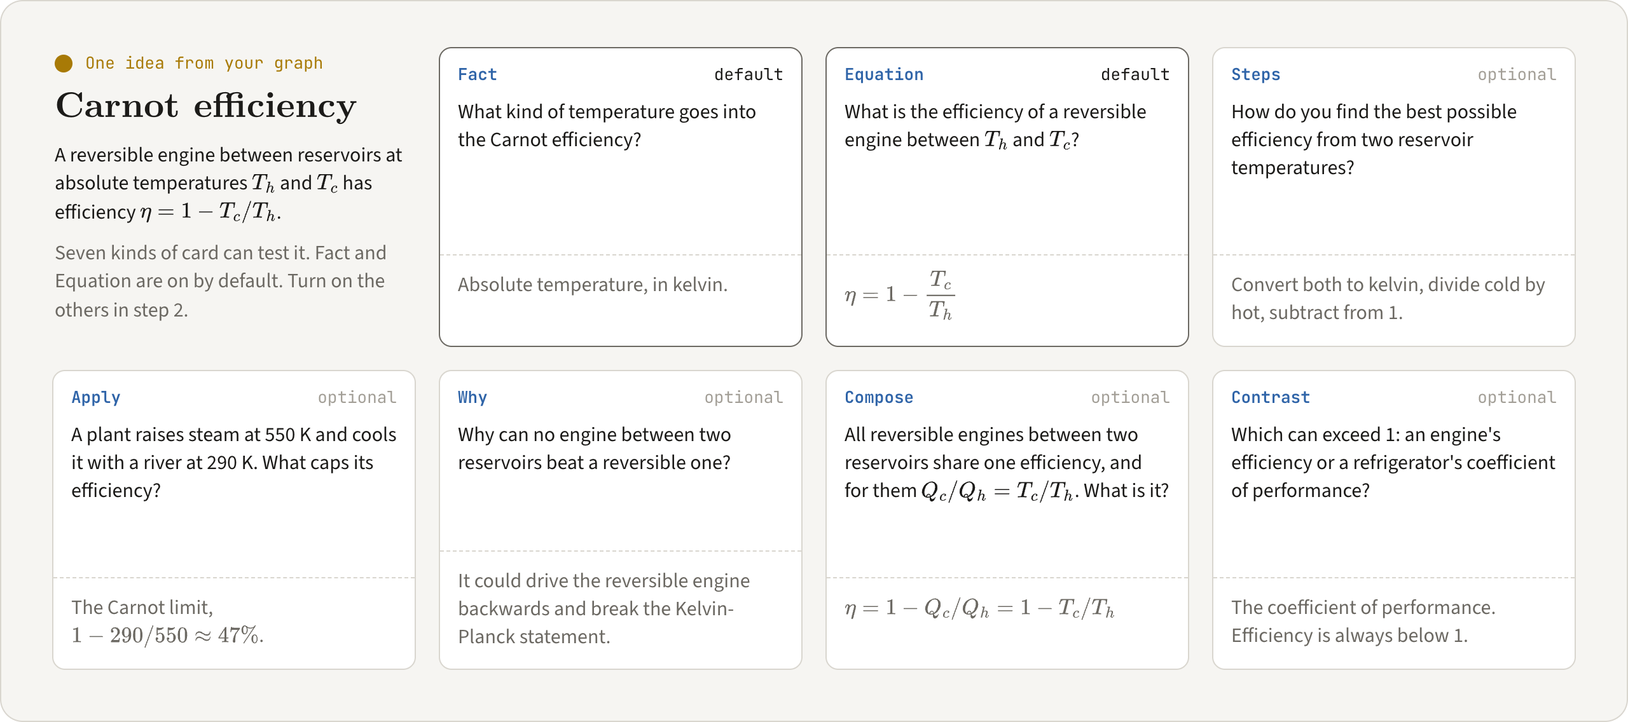
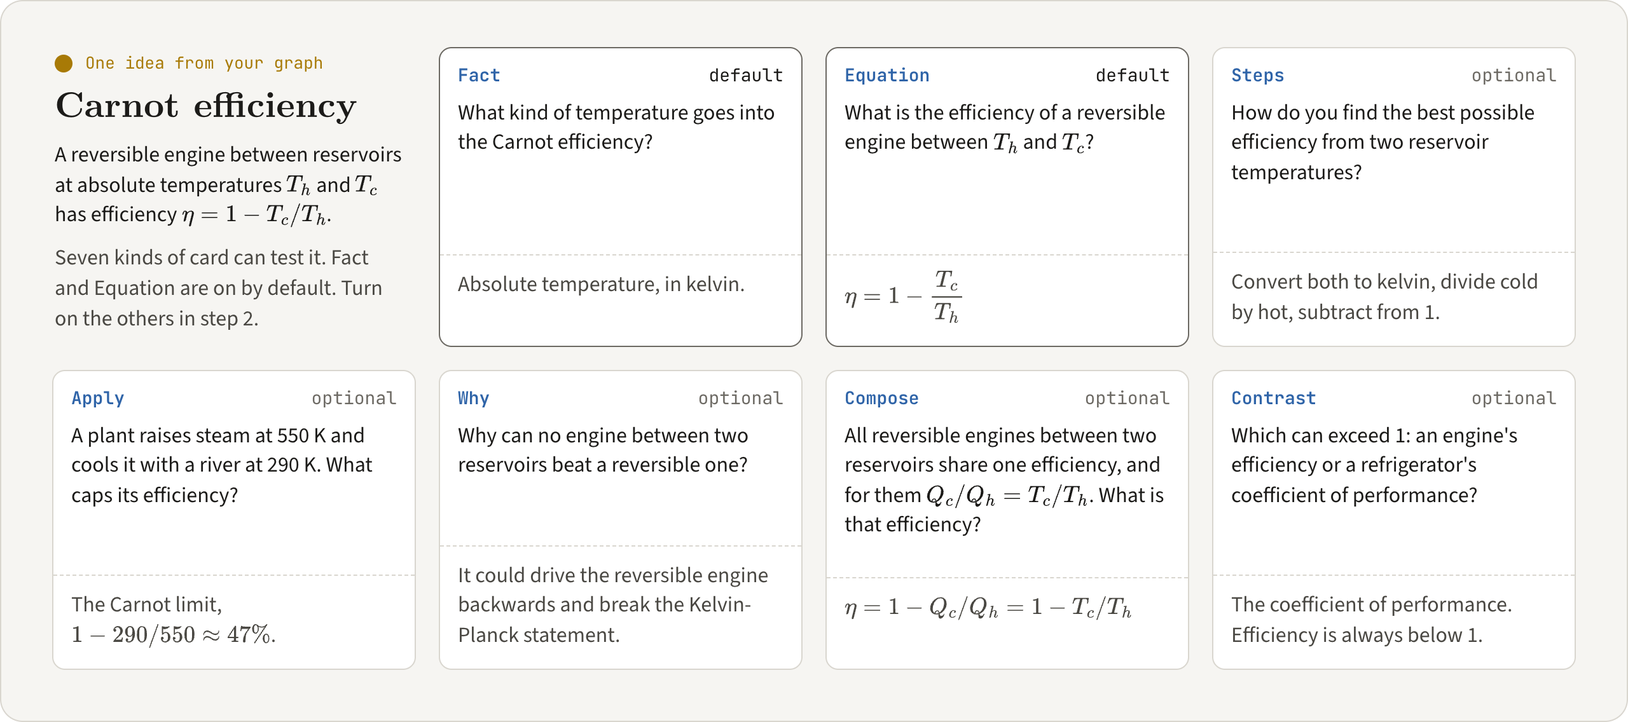
Address council round 1: setup steps, data table, alt text, crops and diagram legibility
- Connect to Anki: Save, Test connection, Use the open profile, Use this
  profile; retake settings unpaired at port 8765
- What goes where: separate writes, on-request note-type changes and reads;
  system tags are default and optional; API key goes with each request
- Model input described as a summary confirmed by Start writing
- Build step, zip prerequisite, tested versions, upgrade backup
- Interrupted sends: reconnect, Check unconfirmed sends, resend failed only
- Credit LearnHarness PR #447 in README and THIRD_PARTY_NOTICES
- Hero cropped to the main panel; choose-ideas ends on the selection bar;
  code crop drops the long-card warning; overlay shadows fit the canvas
- Larger, higher-contrast diagram text; fixed alt text

diff --git a/docs/images/readme/src/workflow.html b/docs/images/readme/src/workflow.html
@@ -4,20 +4,20 @@
 #art { width: 1280px; padding: 40px 48px 44px; border-radius: 18px; border: 1px solid var(--rule); }
 .zones { display: grid; grid-template-columns: 3fr 2fr; position: relative; }
 .zone h2 { font-family: var(--display); font-size: 30px; font-weight: 700; letter-spacing: -0.2px; }
-.zone p.sub { font-size: 14px; color: var(--muted); margin-top: 6px; }
+.zone p.sub { font-size: 16px; color: var(--muted); margin-top: 6px; }
 .zone.anki { padding-left: 44px; }
 .divider { position: absolute; left: 60%; top: -8px; bottom: -8px; border-left: 2px dashed var(--rule); }
-.divider .tag { position: absolute; top: 192px; left: -66px; width: 132px; text-align: center; background: var(--ink); padding: 8px 0; font-size: 13px; color: var(--paper); line-height: 1.35; }
+.divider .tag { position: absolute; top: 192px; left: -66px; width: 132px; text-align: center; background: var(--ink); padding: 8px 0; font-size: 15px; color: var(--paper); line-height: 1.35; }
 .divider .tag b { display: block; color: var(--flag); font-weight: 600; }
 .track { display: grid; grid-template-columns: repeat(3, 1fr); gap: 0; margin-top: 34px; }
 .track.anki { grid-template-columns: repeat(2, 1fr); }
 .st { position: relative; padding-right: 18px; }
 .st svg { display: block; height: 96px; }
-.st .n { font-size: 13px; color: var(--muted); margin-top: 16px; }
-.st h3 { font-size: 17px; font-weight: 600; margin-top: 4px; }
-.st p { font-family: var(--sans); font-size: 16px; line-height: 1.4; color: var(--muted); margin-top: 8px; max-width: 228px; }
+.st .n { font-size: 15px; color: var(--muted); margin-top: 16px; }
+.st h3 { font-size: 20px; font-weight: 600; margin-top: 4px; }
+.st p { font-family: var(--sans); font-size: 19px; line-height: 1.35; color: var(--body); margin-top: 8px; max-width: 228px; }
 .st p em { font-style: normal; color: var(--paper); }
-.foot { margin-top: 34px; padding-top: 18px; border-top: 1px solid var(--rule); display: grid; grid-template-columns: 3fr 2fr; font-family: var(--sans); font-size: 15px; color: var(--muted); }
+.foot { margin-top: 34px; padding-top: 18px; border-top: 1px solid var(--rule); display: grid; grid-template-columns: 3fr 2fr; font-family: var(--sans); font-size: 17px; color: var(--body); }
 .foot span + span { padding-left: 44px; }
 .key { display: inline-block; width: 10px; height: 10px; border-radius: 3px; margin: 0 6px 0 14px; vertical-align: 0; }
 .key:first-child { margin-left: 0; }
@@ -39,7 +39,7 @@
           </svg>
           <div class="n">Step 1</div>
           <h3>Choose ideas</h3>
-          <p>Pick ideas from a session or the whole graph. <em>Flag for Anki</em> marks a teaching reply as you go.</p>
+          <p>Tick ideas from a session. <em>Flag for Anki</em> marks replies as you learn.</p>
         </div>
         <div class="st">
           <svg viewBox="0 0 200 96" width="200">
@@ -52,7 +52,7 @@
           </svg>
           <div class="n">Step 2</div>
           <h3>A model drafts</h3>
-          <p>Your LearnHarness model writes draft cards in the background, using linked ideas and the reply each came from.</p>
+          <p>Your model writes drafts in the background from each idea and its context.</p>
         </div>
         <div class="st">
           <svg viewBox="0 0 200 96" width="200">
@@ -65,7 +65,7 @@
           </svg>
           <div class="n">Step 3</div>
           <h3>You review</h3>
-          <p>Edit, drop or approve each card beside the idea it came from. Maths and code render as you type.</p>
+          <p>Edit, drop or approve each draft. The source idea is one click away.</p>
         </div>
       </div>
     </div>
@@ -83,7 +83,7 @@
           </svg>
           <div class="n">Send</div>
           <h3>New notes</h3>
-          <p>Approved cards go to the deck you pick, with tags, through AnkiConnect.</p>
+          <p>Approved cards go to your deck through AnkiConnect.</p>
         </div>
         <div class="st">
           <svg viewBox="0 0 200 96" width="200">
@@ -94,7 +94,7 @@
           </svg>
           <div class="n">Review</div>
           <h3>Anki schedules</h3>
-          <p>Anki keeps the schedule and your review history. The plugin never edits or deletes a note.</p>
+          <p>Anki schedules reviews. The plugin never edits or deletes notes.</p>
         </div>
       </div>
     </div>

diff --git a/docs/images/readme/src/card-types.html b/docs/images/readme/src/card-types.html
@@ -9,16 +9,16 @@
 .idea .node { display: flex; align-items: center; gap: 10px; font-size: 13px; color: var(--flag); }
 .idea .node i { width: 14px; height: 14px; border-radius: 50%; background: var(--flag); display: inline-block; }
 .idea h2 { font-family: var(--display); font-size: 28px; line-height: 1.1; margin-top: 12px; }
-.idea p { font-family: var(--sans); font-size: 16px; line-height: 1.4; color: var(--muted); margin-top: 10px; }
+.idea p { font-family: var(--sans); font-size: 17px; line-height: 1.4; color: var(--body); margin-top: 10px; }
 .idea p.stmt { color: var(--paper); }
 .card { border-radius: 10px; background: var(--panel); border: 1.5px solid var(--rule); display: flex; flex-direction: column; min-height: 236px; }
 .card.def { border-color: var(--muted); }
-.card header { display: flex; justify-content: space-between; align-items: baseline; padding: 12px 14px 0; font-size: 13px; }
+.card header { display: flex; justify-content: space-between; align-items: baseline; padding: 12px 14px 0; font-size: 14px; }
 .card header b { font-weight: 600; color: var(--draft); }
-.card header span { color: var(--faint); }
+.card header span { color: var(--muted); }
 .card.def header span { color: var(--paper); }
-.card .q { padding: 10px 14px 14px; font-family: var(--sans); font-size: 16px; line-height: 1.38; color: var(--paper); flex: 1; }
-.card .a { padding: 12px 14px 14px; border-top: 1.5px dashed var(--rule); font-family: var(--sans); font-size: 16px; line-height: 1.38; color: var(--muted); min-height: 72px; }
+.card .q { padding: 10px 14px 14px; font-family: var(--sans); font-size: 17px; line-height: 1.38; color: var(--paper); flex: 1; }
+.card .a { padding: 12px 14px 14px; border-top: 1.5px dashed var(--rule); font-family: var(--sans); font-size: 17px; line-height: 1.38; color: var(--body); min-height: 72px; }
 .card .what { padding: 0 14px 12px; font-size: 12px; color: var(--faint); line-height: 1.4; }
 </style></head>
 <body><script>document.body.className = new URLSearchParams(location.search).get("theme") || "";</script>
@@ -46,7 +46,7 @@
       <div class="q">Why can no engine between two reservoirs beat a reversible one?</div>
       <div class="a">It could drive the reversible engine backwards and break the Kelvin-Planck statement.</div></div>
     <div class="card"><header><b>Compose</b><span>optional</span></header>
-      <div class="q">All reversible engines between two reservoirs share one efficiency, and for them \(Q_c/Q_h = T_c/T_h\). What is it?</div>
+      <div class="q">All reversible engines between two reservoirs share one efficiency, and for them \(Q_c/Q_h = T_c/T_h\). What is that efficiency?</div>
       <div class="a">\(\eta = 1 - Q_c/Q_h = 1 - T_c/T_h\)</div></div>
     <div class="card"><header><b>Contrast</b><span>optional</span></header>
       <div class="q">Which can exceed 1: an engine's efficiency or a refrigerator's coefficient of performance?</div>

diff --git a/docs/images/readme/src/frame.html b/docs/images/readme/src/frame.html
@@ -7,7 +7,7 @@
 .bar i { width: 12px; height: 12px; border-radius: 50%; display: block; }
 .view { position: relative; overflow: hidden; }
 .view img { position: absolute; width: 1440px; }
-.over { position: absolute; border-radius: 12px; overflow: hidden; border: 1px solid #444; box-shadow: 0 26px 60px rgba(0,0,0,.55), 0 4px 12px rgba(0,0,0,.35); }
+.over { position: absolute; border-radius: 12px; overflow: hidden; border: 1px solid #444; box-shadow: 0 16px 34px rgba(0,0,0,.45), 0 3px 10px rgba(0,0,0,.3); }
 .over img { position: absolute; width: 1440px; }
 </style></head>
 <body>

diff --git a/docs/images/readme/src/common.css b/docs/images/readme/src/common.css
@@ -10,6 +10,7 @@
   --paper: #e9e7e2;
   --muted: #8d8a84;
   --faint: #5d5b57;
+  --body: #b3afa7;
   --flag: #d6a531;
   --draft: #7aa2d6;
   --anki: #63b07f;
@@ -25,6 +26,7 @@ body.light {
   --paper: #1c1b19;
   --muted: #6c6963;
   --faint: #a29e96;
+  --body: #4a4843;
   --flag: #a87a06;
   --draft: #2f64a8;
   --anki: #2e7d4b;

diff --git a/README.md b/README.md
@@ -2,7 +2,7 @@
   <picture>
     <source media="(prefers-color-scheme: dark)" srcset="docs/images/readme/banner-dark.png">
     <source media="(prefers-color-scheme: light)" srcset="docs/images/readme/banner-light.png">
-    <img src="docs/images/readme/banner-light.png" alt="Anki Bridge: a node in a knowledge graph linked by a dotted line to a stack of flashcards" width="720">
+    <img src="docs/images/readme/banner-light.png" alt="Anki Bridge banner. A node in a knowledge graph is linked by a dotted line to a stack of flashcards." width="720">
   </picture>
 </p>
 
@@ -16,19 +16,19 @@
   <a href="CHANGELOG.md">Changelog</a>
 </p>
 
-Anki Bridge is a community plugin for [LearnHarness](https://github.com/amosblomqvist/learnharness). It reads the ideas in your knowledge graph, has your model draft flashcards from them, and sends the ones you approve to [Anki](https://apps.ankiweb.net/) as new notes.
+<p align="center"><sub>Version 0.7.2 · No public release yet · <a href="#install">Build from source</a></sub></p>
 
-LearnHarness is good at building understanding. Anki is good at keeping it. The plugin connects the two in one direction and puts you in the middle. A model writes the drafts, you edit and approve them, and Anki schedules the reviews. Nothing reaches Anki until you press Send, and the plugin never edits or deletes a note that is already there.
+Anki Bridge is a community plugin for [LearnHarness](https://github.com/amosblomqvist/learnharness). It reads the ideas in your knowledge graph, has your model draft flashcards from them, and sends the ones you approve to [Anki](https://apps.ankiweb.net/) as new notes. You edit and approve every draft, Anki schedules the reviews, and nothing reaches Anki until you press Send.
 
-![The Anki Bridge review step in LearnHarness. Draft cards about Carnot efficiency and the Kelvin-Planck statement show their front, back and extra fields with rendered equations, above a deck and tags form with Approve all drafts and Send buttons.](docs/images/readme/hero.png)
+![The Anki Bridge review step in LearnHarness. A deck and tags form with Approve all drafts (4) and Send 1 card to Anki sits above draft cards about Carnot efficiency and the Kelvin-Planck statement, each showing front, back and extra fields with rendered equations.](docs/images/readme/hero.png)
 
 ## Why it works this way
 
 **Cards start from your graph.** Each LearnHarness idea is a single claim, linked to the premises that support it and the teaching reply it came from. The model sees all of that, so a Why card can ask for the actual reasoning you were taught and a Contrast card can pick a real neighbouring idea.
 
-**You review every card.** Model-written cards are often close but not quite right, and making or reworking your own cards helps you remember them better than studying a premade deck ([Pan et al., 2022](https://doi.org/10.1037/mac0000083)). The review screen is built for editing, with the source idea one click away and a live preview beside each field.
+**You review every card.** Model-written cards are often close but not quite right. Learners who make their own cards remember more than those who study a premade deck ([Pan et al., 2022](https://doi.org/10.1037/mac0000083)), and editing drafts keeps you part of that work. The review screen is built for editing, with the source idea one click away and a live preview below each field.
 
-**It only ever adds.** Anki Bridge creates notes in its own note type and leaves existing notes, schedules and review history alone. If you change a card in Anki, your change stays.
+**It only adds notes.** Anki Bridge creates notes in its own note type. It never edits or deletes an existing note and never changes scheduling or review history. If you change a card in Anki, your change stays.
 
 **Maths and code survive the trip.** Cards use MathJax for equations and keep fenced code blocks with their indentation, both in the preview and in Anki.
 
@@ -37,34 +37,36 @@ LearnHarness is good at building understanding. Anki is good at keeping it. The 
 <picture>
   <source media="(prefers-color-scheme: dark)" srcset="docs/images/readme/how-it-works-dark.png">
   <source media="(prefers-color-scheme: light)" srcset="docs/images/readme/how-it-works-light.png">
-  <img src="docs/images/readme/how-it-works-light.png" alt="Diagram in two halves. In LearnHarness: step 1, choose ideas, optionally flagged during teaching; step 2, a model drafts cards; step 3, you review them. A dashed line separates this from Anki, where approved cards arrive as new notes and Anki schedules reviews. Only cards you approve cross the line.">
+  <img src="docs/images/readme/how-it-works-light.png" alt="Diagram in two halves. In LearnHarness, step 1 is choosing ideas, which you can flag during teaching. In step 2 a model drafts cards, and in step 3 you review them. A dashed line separates this from Anki, where approved cards arrive as new notes and Anki schedules reviews. Only cards you approve cross the line.">
 </picture>
 
-Open **Anki Bridge** from the LearnHarness sidebar. The page has three steps, top to bottom.
+### Before you start, flag replies while you learn
 
-### Flag ideas while you learn
+When a teaching reply covers something you want to keep, press **Flag for Anki** in the session's top bar. It flags the latest finished reply and lets you leave a note for the card writer, such as the mistake you made. Cmd+Shift+A (Ctrl+Shift+A on Windows and Linux) flags it at once, and the confirmation offers to add a note. The flag covers every idea LearnHarness extracts from that reply, and flagged ideas may get more cards than usual. **Make cards** in the same bar jumps straight to drafting for the current session.
 
-When a teaching reply covers something you want to keep, press **Flag for Anki** in the session's top bar, or Cmd+Shift+A (Ctrl+Shift+A on Windows and Linux). You can leave a note for the card writer, such as the mistake you made. The flag covers every idea LearnHarness extracts from that reply, and flagged ideas may get more cards than usual. **Make cards** in the same bar jumps straight to drafting for the current session.
+Flagging is optional. You can make cards for any idea in your graph.
 
 ![A LearnHarness teaching session about heat engines, with Flag for Anki and Make cards in the top bar. The Flag for Anki dialog shows an excerpt of the latest reply and the note "I mix up which temperature goes on top."](docs/images/readme/flag.png)
 
 ### 1. Choose ideas
 
-Pick a session, or the whole graph, and tick the ideas you want cards for. Each idea shows where it stands: flagged, no cards yet, drafts to review, already in Anki, or changed since you made its cards. One click selects every idea that has no cards, which is the quickest way to catch up on an old session. Ideas you never want cards for can be dismissed.
+Open **Anki Bridge** from the LearnHarness sidebar. The page has three steps, top to bottom.
 
-![Step 1, Choose ideas. A flag banner with the note about temperatures sits above a list of ideas from the heat engines session, each tagged Flagged, No cards, 1 to review, 1 in Anki or Changed since carded.](docs/images/readme/choose-ideas.png)
+Pick a session, or the whole graph, and tick the ideas you want cards for. Each idea shows where it stands: flagged, no cards yet, drafts to review, already in Anki, or changed since you made its cards. **Select ideas without cards** picks every idea in the current view that has none, which is the quickest way to catch up on an old session. Ideas you never want cards for can be dismissed.
+
+![Step 1, Choose ideas. A flag banner with the note about temperatures sits above a list of ideas from the heat engines session with badges such as Flagged, No cards, 1 to review, 1 in Anki and Changed since carded. A bar at the bottom reads 7 ideas selected.](docs/images/readme/choose-ideas.png)
 
 ### 2. Write cards
 
-Choose the card types and the most cards per idea, then press **Write cards**. The plugin uses your LearnHarness cheap model unless you pick another one. Before anything runs, you get the number of model calls, the most cards it can write, a cost estimate when the model has pricing, and a list of exactly what will be sent to the model.
+Choose the card types and the most cards per idea, then press **Write cards**. The plugin uses your LearnHarness cheap model unless you pick another one. Before anything runs, a dialog shows the number of model calls, the most cards it can write, a cost estimate for the first attempt when the model has pricing, and a summary of what will be sent to the model. Nothing is sent until you press **Start writing**.
 
-Writing happens in the background, so you can keep learning. If you cancel, cards from finished batches are kept, and **Retry the rest** re-estimates only the batches that failed.
+Writing happens in the background, so you can keep learning. If a run is cancelled or a batch fails, cards from finished batches are kept, and **Retry the rest** estimates again for the remaining ideas only.
 
 ![Step 2, Write cards. Card type checkboxes with Fact, Equation and Why ticked, a cards-per-idea limit, and the Write cards dialog listing 2 ideas, up to 4 cards, Claude Haiku 4.5 as the LearnHarness cheap model, 1 model call and a cost of about one cent.](docs/images/readme/write.png)
 
 ### 3. Review and send
 
-Every draft shows its front, back and optional extra field with maths and code rendered. Open **Idea when this card was written** to compare a card with its source. Edit, drop or approve cards one at a time, or approve all drafts once you have read them. Long cards get a gentle warning, not a block.
+Every draft shows its front, back and optional extra field with maths and code rendered. Open **Idea when this card was written** to compare a card with its source. Edit, drop or approve cards one at a time, or approve all drafts once you have read them. Long cards get a gentle warning, not a block. You can also write a card by hand from the **More** menu.
 
 ![Editing a card. The raw text with MathJax delimiters sits above a live preview of the rendered question and the equation for Carnot efficiency.](docs/images/readme/edit.png)
 
@@ -92,7 +94,7 @@ Pick a deck (or type a new one), check the tags and press **Send**. The tags fie
 | Compose | Combine linked ideas to reach this one | Off |
 | Contrast | Tell the idea apart from a similar one | Off |
 
-The model writes only types that fit an idea. Why and Compose need a reasoning chain that ends in the idea, and Contrast needs a related idea to compare with. An idea can also get no card at all if the model judges it not worth one, and it says why. Numerical values of physical constants are left out of answers unless you turn them on.
+The model writes only types that fit an idea. Why and Compose need a reasoning chain that ends in the idea, and Contrast needs a related idea to compare with. An idea can also get no card at all if the model judges it not worth one, and it says why. Numerical values of physical constants are left out unless you turn them on, ask for one in a flag note, or the lesson calculates with that constant.
 
 ## Install
 
@@ -101,40 +103,48 @@ The model writes only types that fit an idea. Why and Compose need a reasoning c
 
 ### What you need
 
-- [LearnHarness](https://github.com/amosblomqvist/learnharness) 0.6.1 or later, with community plugins (plugin API v1). Testing so far has been on 0.6.1.
-- Anki Desktop with the [AnkiConnect](https://git.sr.ht/~foosoft/anki-connect) add-on, running while you send. Tested with Anki 26.08.1 and AnkiConnect 26.10.11.0 and 26.11.15.0. AnkiConnect builds without `getActiveProfile` are refused, because the plugin uses it to check it is writing to the right profile.
-- A model set up in LearnHarness. Choosing ideas and estimating cost make no model calls. Writing cards uses your provider's quota.
+- [LearnHarness](https://github.com/amosblomqvist/learnharness) with community plugins (plugin API v1). Tested on 0.6.1. The plugin allows later versions but has not been tested on them.
+- Anki Desktop with the [AnkiConnect](https://git.sr.ht/~foosoft/anki-connect) add-on, running while you send. Tested with Anki 26.08.1 and AnkiConnect 26.10.11.0 and 26.11.15.0, which need Anki 26.08 or later. AnkiConnect builds without `getActiveProfile` are refused, because the plugin uses it to check it is writing to the right profile.
+- A model set up in LearnHarness, for writing cards. Choosing ideas, estimating cost and sending make no model calls. Writing cards uses your provider's quota.
+- To build the zip, Node.js 23.6 or later, npm and the `zip` command.
 
 ### Steps
 
-1. Get `anki-bridge-v0.7.2.zip`. To build it, run `npm ci` and then `npm run package:plugin` in this repository with Node.js 23.6 or later.
+1. Build the zip. In a clone of this repository, run `npm ci` and then `npm run package:plugin`. This writes `anki-bridge-v0.7.2.zip` at the repository root.
 2. In LearnHarness, open **Settings → Community plugins** and copy the plugins folder path. Quit LearnHarness.
 3. Unzip the archive and move the `anki-bridge` folder into the plugins folder, so the manifest ends up at `anki-bridge/dist/manifest.json`.
 4. Start LearnHarness, enable **Anki Bridge** under Community plugins, and open it from the sidebar.
 
-To upgrade later, replace only `anki-bridge/dist/` and keep `anki-bridge/data/`, which holds your drafts, flags and send history. The [install guide](docs/install.md) has the full upgrade, rollback and troubleshooting steps.
+To upgrade later, quit LearnHarness, back up `anki-bridge/data/`, then replace only `anki-bridge/dist/`. The `data/` folder holds your drafts, flags and send history. The [install guide](docs/install.md) has the full upgrade, rollback and troubleshooting steps.
 
 > [!WARNING]
 > Community plugins run local code with the same access as LearnHarness. Only install a build you trust.
 
 ### Connect to Anki
 
-Open Anki on the profile you want cards in. In **Settings → Anki Bridge**, enter your AnkiConnect address (usually `http://127.0.0.1:8765`) and press **Test connection**. Then choose **Use the open profile**. From then on, the plugin checks the profile before every send and stops if a different one is open.
+Open Anki on the profile you want cards in. A throwaway profile is a good place to start.
+
+1. In **Settings → Anki Bridge**, check the AnkiConnect address (usually `http://127.0.0.1:8765`) and add an API key if you set one in AnkiConnect.
+2. Press **Save**, then **Test connection**.
+3. Press **Use the open profile**, check the profile name, and confirm with **Use this profile**.
+
+From then on, the plugin checks the profile before every send and stops if a different one is open.
 
 <p align="center">
-  <img src="docs/images/readme/settings.png" alt="Anki Bridge settings inside LearnHarness Settings, with Connect to Anki (AnkiConnect address, API key, Save and Test connection) and Anki profile (new cards go to profile Throwaway, Switch to the open profile)." width="720">
+  <img src="docs/images/readme/settings.png" alt="Anki Bridge settings inside LearnHarness Settings. Connect to Anki has the address http://127.0.0.1:8765, an empty API key field, and Save and Test connection buttons. Anki profile reads No profile chosen yet, with a Use the open profile button." width="720">
 </p>
 
 ## What goes where
 
 | | What | When |
 | --- | --- | --- |
-| To your model | The chosen ideas, their linked ideas, an excerpt of the reply each idea came from, your flag notes and any existing cards for those ideas | Only after you confirm the estimate |
-| To Anki | Approved cards as new notes in the note type `LearnHarness Basic`, with fields Front, Back, Extra, Source, LH_ID and LH_Node | Only when you press Send |
+| To your model | The chosen ideas, nearby linked ideas, an excerpt of the reply each idea came from when there is one, your flag notes, and cards Anki Bridge already made for those ideas | When you press **Start writing** |
+| Written to Anki | Approved cards as new notes in the note type `LearnHarness Basic` (fields Front, Back, Extra, Source, LH_ID and LH_Node). A send also creates the deck and the note type if they are missing. | When you press **Send** |
+| Changed in Anki on request | The `LearnHarness Basic` note type's missing fields, styling and templates | Only when you confirm a repair or reset in settings |
 | Read from Anki | Connection, active profile, deck names, tags, the note type, and whether sent notes still exist | When you open the page, send, or run a check |
-| Never touched | Existing notes, scheduling and review history | Never |
+| Never changed | Existing note content, scheduling and review history | Never |
 
-Every note gets the tags `learnharness` and `learnharness::kind::<type>`, so you can find or filter plugin cards in Anki. Drafts, flags and send records stay in the plugin's own data folder inside LearnHarness. Your LearnHarness graph and sessions are read, never changed.
+If you set an API key, it goes with every AnkiConnect request. By default each note also gets the tags `learnharness` and `learnharness::kind::<type>` (Contrast cards use `discriminate`), so you can find plugin cards in Anki. You can turn these tags off in settings. Drafts, flags and send records stay in the plugin's own data folder inside LearnHarness. Your LearnHarness graph and sessions are read, never changed.
 
 ## Limitations
 
@@ -149,7 +159,7 @@ Every note gets the tags `learnharness` and `learnharness::kind::<type>`, so you
 
 These are proposals and open pull requests. None of them is merged.
 
-- Simpler drafting controls: fewer card-type choices on the Write step and a plainer model picker ([#40](https://github.com/Singh-Mehtab/learnharness-anki-bridge/pull/40)).
+- Fewer card-type choices on the Write step and a plainer model picker ([#40](https://github.com/Singh-Mehtab/learnharness-anki-bridge/pull/40)).
 - Topics to revisit, drawn from your Anki reviews ([#41](https://github.com/Singh-Mehtab/learnharness-anki-bridge/pull/41)).
 - Export approved cards as an `.apkg` file, for when AnkiConnect is not an option ([#42](https://github.com/Singh-Mehtab/learnharness-anki-bridge/pull/42)).
 - A first public release.
@@ -158,9 +168,9 @@ These are proposals and open pull requests. None of them is merged.
 
 **Does this replace the built-in Flashcards plugin?** No. Flashcards schedules reviews inside LearnHarness. Anki Bridge hands cards to Anki and lets Anki schedule them. The two share no data and can both be enabled.
 
-**What happens if I edit a card in Anki?** Your edit stays. The plugin never updates a note after sending it. If you regenerate cards for an idea, the model sees the existing ones and tries new angles rather than repeating them.
+**What happens if I edit a card in Anki?** Your edit stays. The plugin never updates a note after sending it. If you write more cards for an idea, the model sees the cards Anki Bridge already made for it and tries new angles. It sees them as the plugin stored them, so it does not see edits made in Anki.
 
-**What if a send is interrupted?** The plugin records each send before it starts. After a crash or restart, **Check unconfirmed sends** in the More menu finds out which notes reached Anki, so nothing is sent twice.
+**What if a send is interrupted?** The plugin records each card before adding its note. After a crash or restart, reconnect to the same address and profile, then use **Check unconfirmed sends** in the **More** menu. It looks for each card in Anki and marks it sent or failed. Resend only the cards marked failed.
 
 **Is it affiliated with Anki or LearnHarness?** No. It is an unofficial community plugin.
 
@@ -170,6 +180,6 @@ See [docs/development.md](docs/development.md) for setup, tests and the card-qua
 
 ## Credits and license
 
-The card writer adapts card-kind and prompt rules from [Twig](https://github.com/amoghu1s1/twig) and from LearnHarness's core Flashcards plugin, both AGPL-3.0. The development SDK types and local install script come from LearnHarness. See [THIRD_PARTY_NOTICES.md](THIRD_PARTY_NOTICES.md).
+The card writer adapts card-kind and prompt rules from [Twig](https://github.com/amoghu1s1/twig), from LearnHarness's core Flashcards plugin, and from the LearnHarness recall-cards proposal ([PR #447](https://github.com/amosblomqvist/learnharness/pull/447)), all AGPL-3.0. The development SDK types and local install script come from LearnHarness. See [THIRD_PARTY_NOTICES.md](THIRD_PARTY_NOTICES.md).
 
 Anki Bridge is licensed under [AGPL-3.0](LICENSE).

diff --git a/THIRD_PARTY_NOTICES.md b/THIRD_PARTY_NOTICES.md
@@ -8,7 +8,7 @@ Source: https://github.com/amosblomqvist/learnharness, v0.6.1, AGPL-3.0. Copyrig
 
 ## Twig and core Flashcards
 
-The card writer and its benchmark adapt card-kind and prompt rules from [Twig](https://github.com/amoghu1s1/twig), by its contributors, and LearnHarness core Flashcards, by the LearnHarness contributors. Both are AGPL-3.0.
+The card writer and its benchmark adapt card-kind and prompt rules from [Twig](https://github.com/amoghu1s1/twig), by its contributors, and LearnHarness core Flashcards, by the LearnHarness contributors. Both are AGPL-3.0. The prompt also adapts card-writing rules (one fact per card, the "and" test) from the recall-cards proposal in [LearnHarness PR #447](https://github.com/amosblomqvist/learnharness/pull/447) by lellopz05, under the same license.
 
 ## genanki
 
